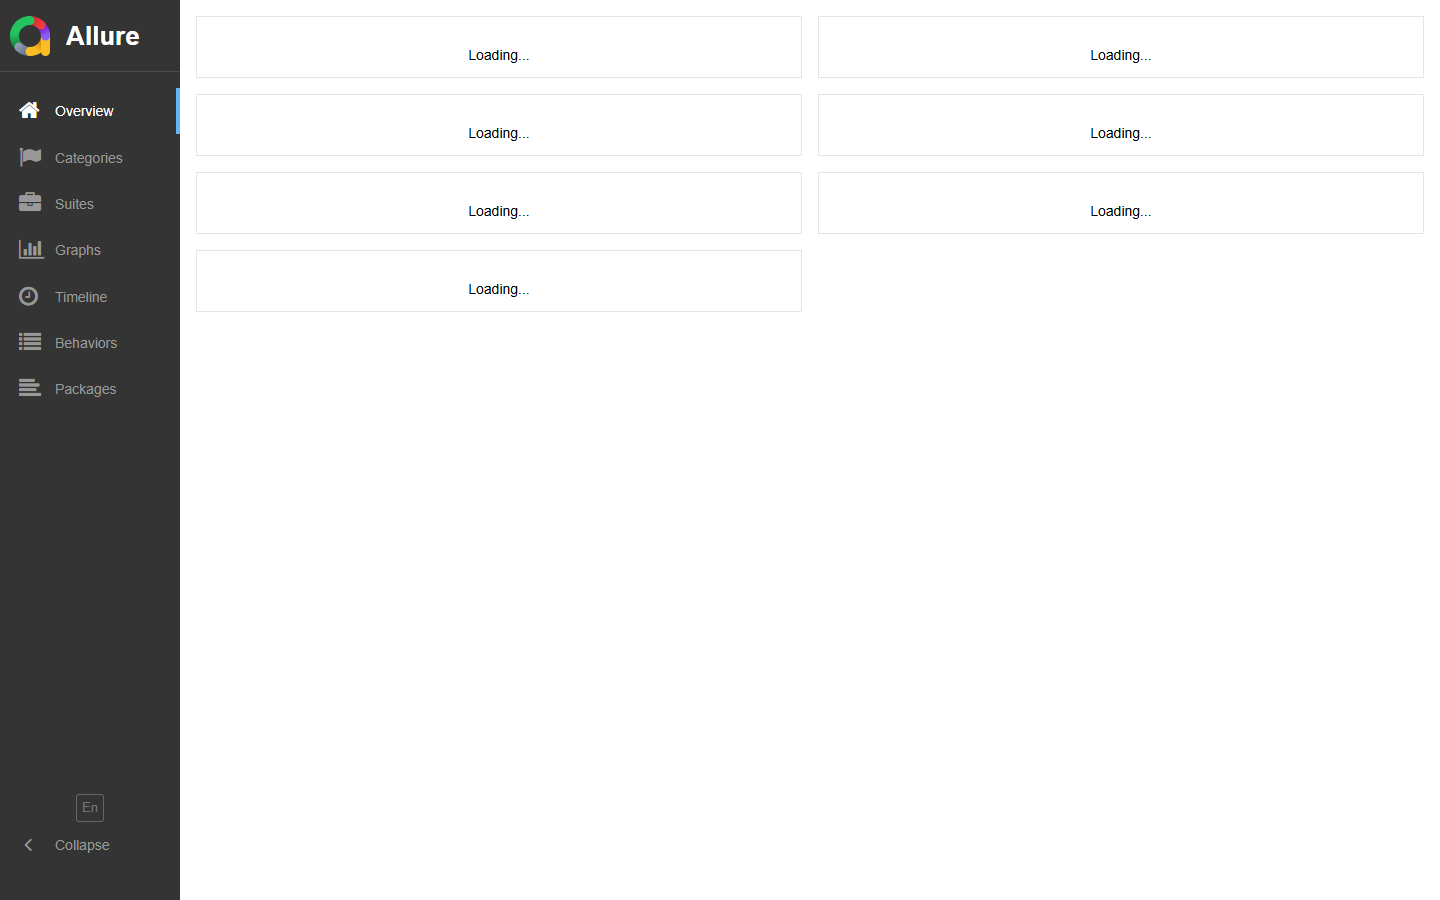
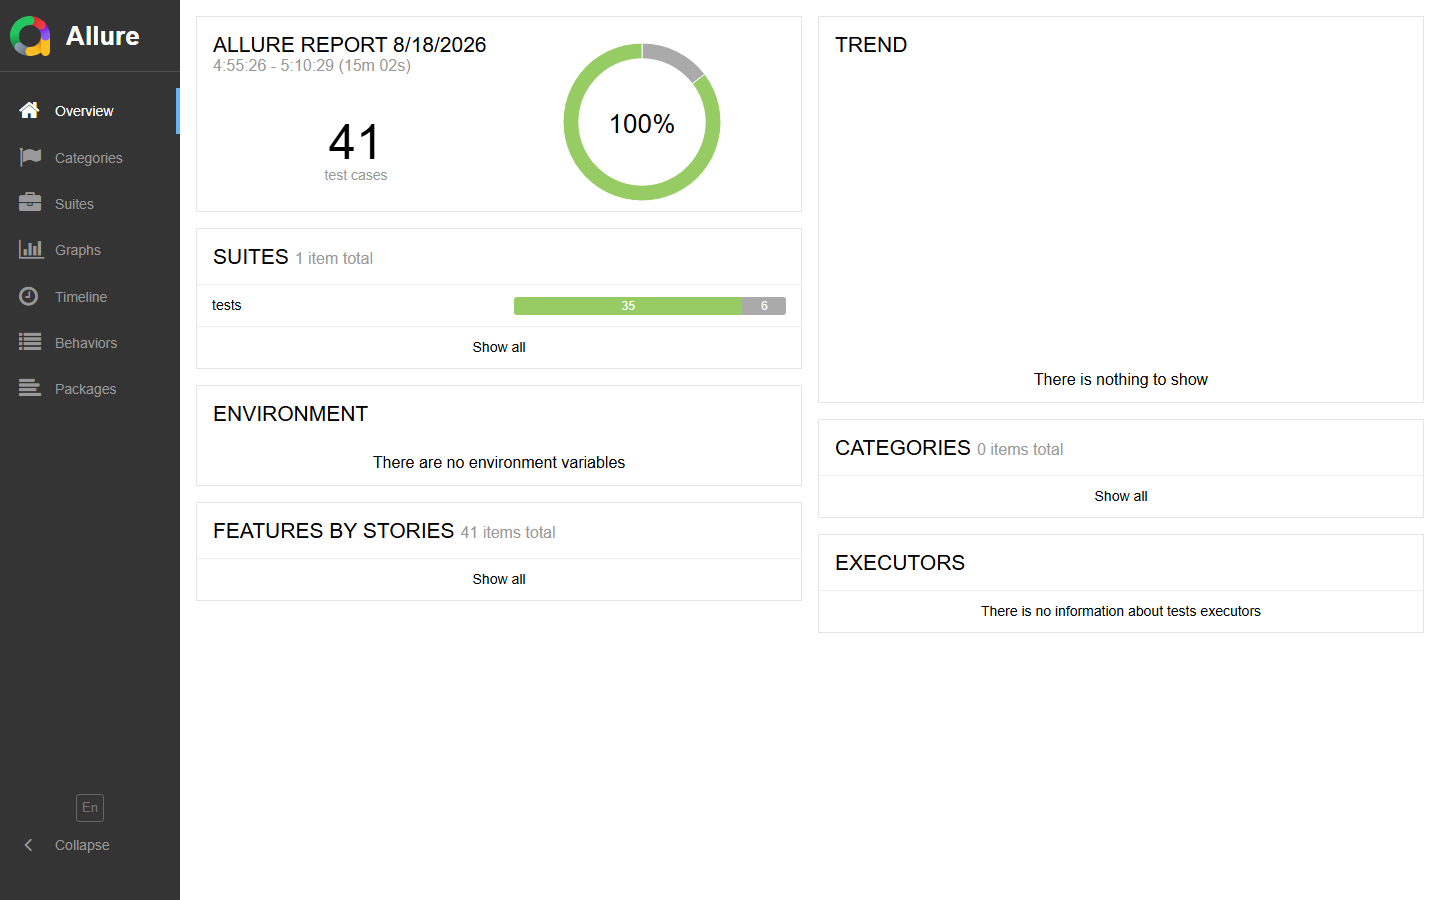
chore: update project and add allure screenshot script

diff --git a/scripts/update_allure_screenshot.py b/scripts/update_allure_screenshot.py
@@ -1,0 +1,122 @@
+"""Regenerate the README Allure report screenshot after the report is built."""
+
+from __future__ import annotations
+
+import argparse
+import http.server
+import os
+import shutil
+import subprocess
+import sys
+import tempfile
+import threading
+from pathlib import Path
+
+
+CHROME_CANDIDATES = [
+    Path(os.environ.get("CHROME_PATH", "")),
+    Path(r"C:\Program Files\Google\Chrome\Application\chrome.exe"),
+    Path(r"C:\Program Files (x86)\Google\Chrome\Application\chrome.exe"),
+    Path(r"C:\Program Files\Microsoft\Edge\Application\msedge.exe"),
+    Path(r"C:\Program Files (x86)\Microsoft\Edge\Application\msedge.exe"),
+]
+
+
+class QuietHandler(http.server.SimpleHTTPRequestHandler):
+    def log_message(self, fmt, *args):
+        pass
+
+
+def find_chrome() -> str | None:
+    for candidate in CHROME_CANDIDATES:
+        if candidate.is_file():
+            return str(candidate)
+    return shutil.which("chrome") or shutil.which("msedge")
+
+
+def start_server(report_dir: Path):
+    handler = lambda *args, **kwargs: QuietHandler(
+        *args, directory=str(report_dir), **kwargs
+    )
+    server = http.server.ThreadingHTTPServer(("127.0.0.1", 0), handler)
+    thread = threading.Thread(target=server.serve_forever, daemon=True)
+    thread.start()
+    return server, server.server_address[1]
+
+
+def capture_screenshot(chrome: str, url: str, screenshot: Path) -> None:
+    with tempfile.TemporaryDirectory(
+        prefix="allure-screenshot-profile-", ignore_cleanup_errors=True
+    ) as profile:
+        command = [
+            chrome,
+            "--headless=new",
+            "--disable-gpu",
+            "--disable-software-rasterizer",
+            "--no-sandbox",
+            "--disable-extensions",
+            "--disable-background-networking",
+            "--no-first-run",
+            "--no-default-browser-check",
+            f"--user-data-dir={profile}",
+            "--virtual-time-budget=10000",
+            "--window-size=1440,900",
+            f"--screenshot={screenshot}",
+            url,
+        ]
+        subprocess.run(
+            command,
+            check=True,
+            timeout=45,
+            stdout=subprocess.DEVNULL,
+            stderr=subprocess.DEVNULL,
+        )
+
+
+def parse_args(argv):
+    parser = argparse.ArgumentParser(
+        description="Generate docs/allure-report.png from reports/allure-report."
+    )
+    parser.add_argument("--report-dir", type=Path, help="Allure report directory.")
+    parser.add_argument("--output", type=Path, help="PNG output path.")
+    return parser.parse_args(argv)
+
+
+def main(argv=None) -> int:
+    args = parse_args(argv)
+    repo_root = Path(__file__).resolve().parents[1]
+    report_dir = args.report_dir or repo_root / "reports" / "allure-report"
+    output = args.output or repo_root / "docs" / "allure-report.png"
+
+    if not (report_dir / "index.html").is_file():
+        print(f"Allure report not found: {report_dir / 'index.html'}", file=sys.stderr)
+        return 1
+
+    chrome = find_chrome()
+    if not chrome:
+        print("Chrome or Edge not found. Set CHROME_PATH to the browser exe.", file=sys.stderr)
+        return 1
+
+    output.parent.mkdir(parents=True, exist_ok=True)
+    server, port = start_server(report_dir)
+    try:
+        url = f"http://127.0.0.1:{port}/index.html"
+        with tempfile.TemporaryDirectory(
+            prefix="allure-screenshot-output-", ignore_cleanup_errors=True
+        ) as tmp:
+            screenshot = Path(tmp) / "allure-report.png"
+            capture_screenshot(chrome, url, screenshot)
+            if not screenshot.is_file() or screenshot.stat().st_size < 10_000:
+                print("Screenshot looks incomplete; the report may still be loading.", file=sys.stderr)
+                return 1
+            shutil.copyfile(screenshot, output)
+    finally:
+        server.shutdown()
+        server.server_close()
+
+    print(f"Updated {output}")
+    return 0
+
+
+if __name__ == "__main__":
+    raise SystemExit(main())

diff --git a/tests/test_data_driven.py b/tests/test_data_driven.py
@@ -26,8 +26,8 @@ def test_login_cases_read_from_csv():
     cases = load_cases(LOGIN_CASES_FILE)
 
     assert len(cases) == 10
-    assert len(LOGIN_SUCCESS_DATA) == 2
-    assert len(LOGIN_FAILED_DATA) == 8
+    assert len(LOGIN_SUCCESS_DATA) == 3
+    assert len(LOGIN_FAILED_DATA) == 7
     assert LOGIN_SUCCESS_DATA[0]["username"] == "3026288915@qq.com"
     assert LOGIN_FAILED_DATA[-1]["password"] == ""
     assert all(case.get("execute") for case in cases)

diff --git a/data/login_data.py b/data/login_data.py
@@ -48,10 +48,10 @@ LOGIN_CODE_CASES = [
         "execute": True,
     },
     {
-        "case": "用户名首尾空格",
+        "case": "用户名首尾空格自动去除后登录",
         "username": f" {LOGIN_USERNAME} ",
         "password": LOGIN_PASSWORD,
-        "expected_result": "fail",
+        "expected_result": "success",
         "execute": True,
     },
     {

diff --git a/data/register_data.py b/data/register_data.py
@@ -73,7 +73,7 @@ REGISTER_CODE_CASES = [
     {
         "case": "手机号已注册",
         "email": "RANDOM",
-        "mobile": "123",
+        "mobile": "13414764310",
         "password": DEFAULT_PASSWORD,
         "re_password": DEFAULT_PASSWORD,
         "first_name": "自动化",
